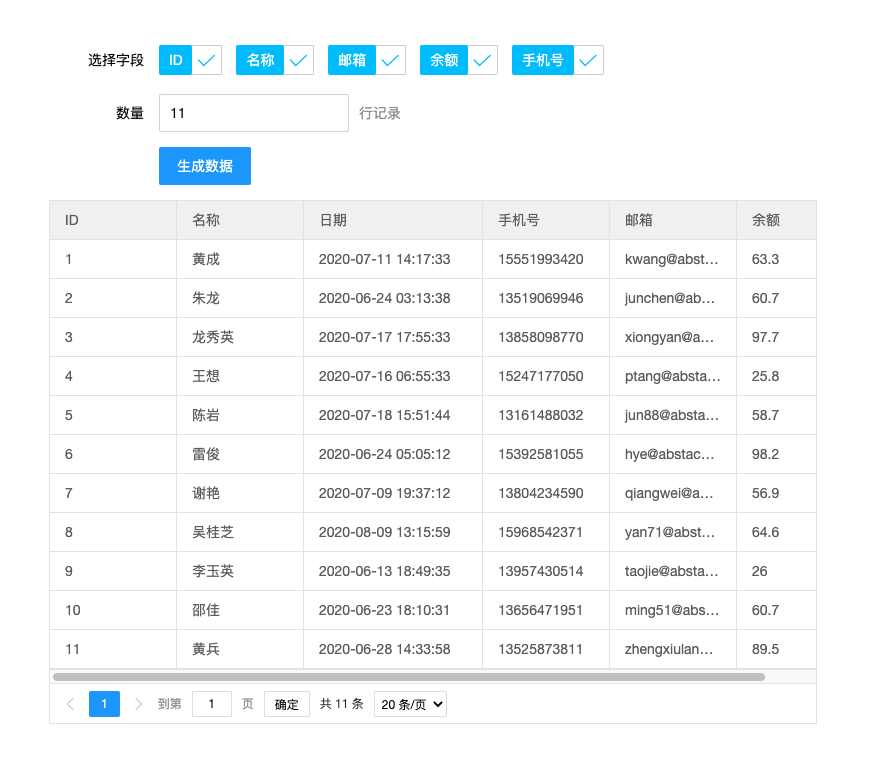
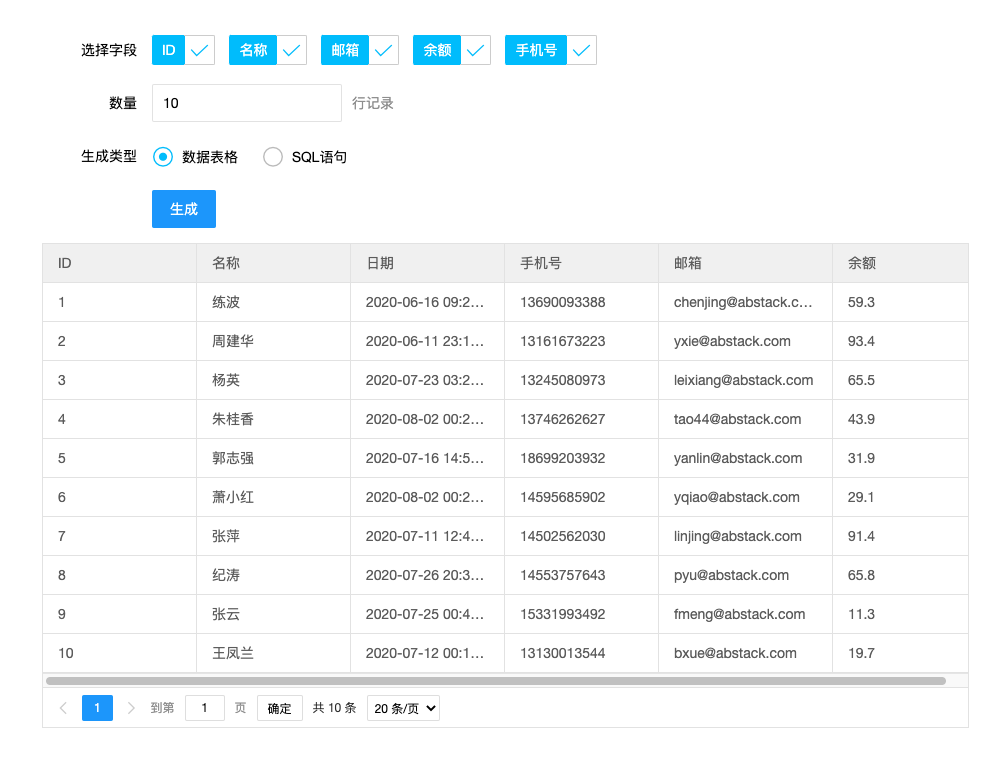
Modify README.md

diff --git a/html/index.html b/html/index.html
@@ -38,8 +38,15 @@
                 <div class="layui-form-mid layui-word-aux">行记录</div>
             </div>
             <div class="layui-form-item">
+                <label class="layui-form-label">生成类型</label>
                 <div class="layui-input-block">
-                    <button class="layui-btn" lay-submit lay-filter="dataForm">生成数据</button>
+                    <input type="radio" name="datatype" value="datatable" title="数据表格" checked>
+                    <input type="radio" name="datatype" value="SQL" title="SQL语句">
+                </div>
+            </div>
+            <div class="layui-form-item">
+                <div class="layui-input-block">
+                    <button class="layui-btn" lay-submit lay-filter="dataForm">生成</button>
                 </div>
             </div>
         </form>

diff --git a/README.md b/README.md
@@ -13,9 +13,9 @@ uvicorn main:app --reload
 ## TODO
 
 - [ ] create insert sql
-- [ ] create data table
-- [ ] custom field data
+- [x] create data table
+- [x] custom field data
 
 ## screenshot
 
-<img src="resource/screen.png" width=800 /> ![](resource/screen.png)
+![](resource/screen.png)
